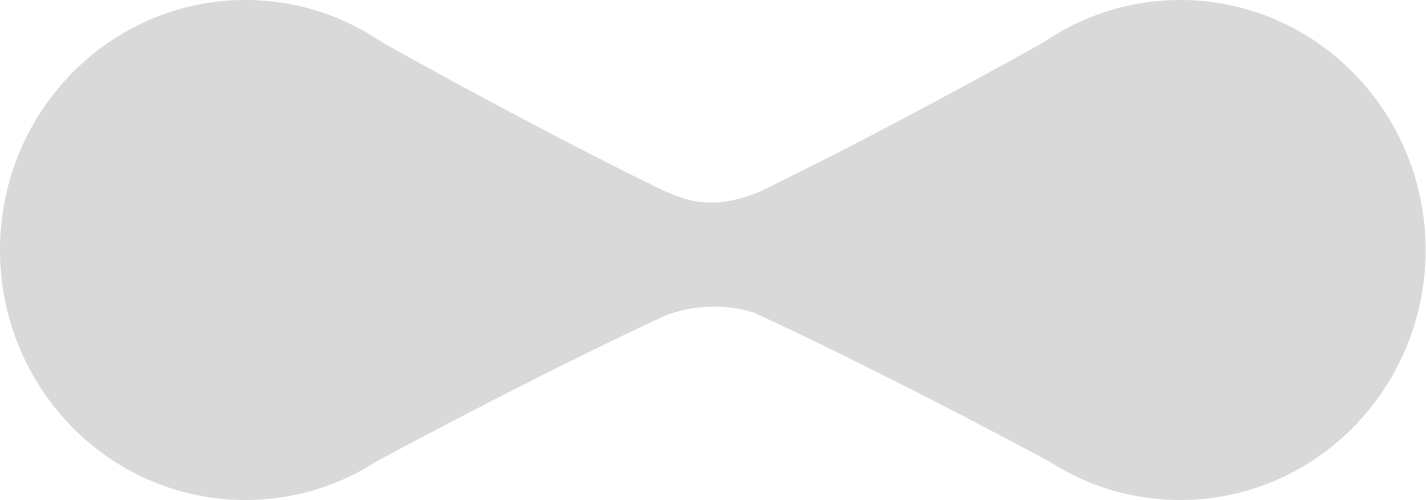
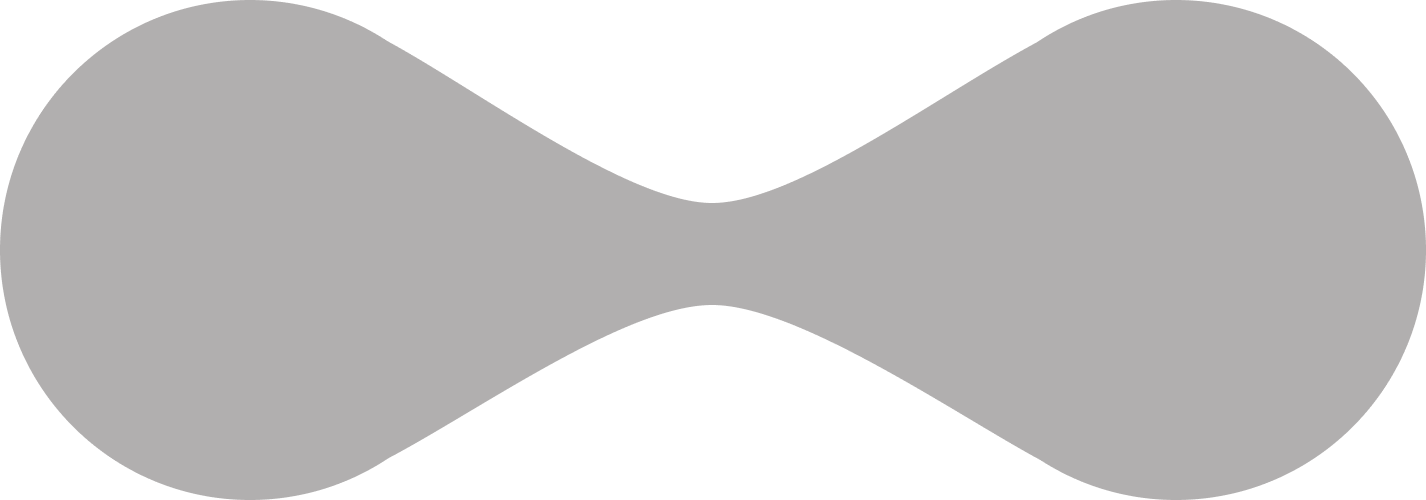
new home page background + circle shadow

diff --git a/index.html b/index.html
@@ -45,18 +45,20 @@
     <p id="hovered-item"></p>
     <div id="custom-cursor"></div>
     <div class="main-carousel" id="main-carousel">
-        <div class="circle-drop-shadow">
-            <div class="circle-art" id="circle-art">
+        <div class="circle-drop-shadow"  id="circle-art">
+            <div class="circle-art">
                 <img class="carousel-image circle-art-photo">
             </div>
+            <div class="inset-shadow"></div>
         </div>
         <div style="width: 50px;">
             <!-- 50px gap -->
         </div>
-        <div class="circle-drop-shadow">
-            <div class="circle-art" id="circle-about-me">
+        <div class="circle-drop-shadow" id="circle-about-me">
+            <div class="circle-art">
                 <img src="assets/images/about-me-profile.webp" class="carousel-image">
             </div>
+            <div class="inset-shadow"></div>
         </div>
         <div style="width: 50px;">
             <!-- 50px gap -->
@@ -70,7 +72,7 @@
                       </video>
                       
                 </div>
-                
+                <div class="inset-shadow-mix-circle"></div>
             </div>
         </div>
         <div style="width: 50px;">
@@ -78,18 +80,20 @@
         </div>
 
         <!-- duplicate content -->
-        <div class="circle-drop-shadow">
-            <div class="circle-art" id="circle-art" >
+        <div class="circle-drop-shadow" id="circle-art" >
+            <div class="circle-art">
                 <img class="carousel-image circle-art-photo">
             </div>
+            <div class="inset-shadow"></div>
         </div>
         <div style="width: 50px;">
             <!-- 50px gap -->
         </div>
-        <div class="circle-drop-shadow">
-            <div class="circle-art" id="circle-about-me">
+        <div class="circle-drop-shadow" id="circle-about-me">
+            <div class="circle-art">
                 <img src="assets/images/about-me-profile.webp" class="carousel-image">
             </div>
+            <div class="inset-shadow"></div>
         </div>
         <div style="width: 50px;">
             <!-- 50px gap -->
@@ -102,6 +106,7 @@
                         <source src="assets/videos/home-page.webm" type="video/webm">
                       </video>
                 </div>
+                <div class="inset-shadow-mix-circle"></div>
             </div>
         </div>
         <div style="width: 50px;">

diff --git a/style.css b/style.css
@@ -192,15 +192,14 @@ body {
     width: 100%;
     height: 100%;
     z-index: -2;
-    background-image: url(/assets/images/welcome.webp);
+    background-image: url(/assets/images/background-desktop.webp);
     filter: saturate(0);
     background-repeat: no-repeat;
     background-size: cover;
-    /* transition: all 1.5s; */
 }
 
 #welcome-background.after-welcome {
-   opacity: 0.9;
+   filter: brightness(0.9);
 }
 
 #welcome-background-subject {
@@ -438,13 +437,14 @@ body {
 }
 
 .mix-circle-drop-shadow {
-    background-image: url('assets/images/mix-circle.webp');
+    background-image: url('assets/images/mix-circle.png');
     background-size: cover;
     background-position: center;
 }
 
 .mix-circle-drop-shadow:hover {
     filter: drop-shadow(0 0 30px rgba(0, 0, 0, 0.4));
+    transform: scale(0.99);
     transition: all 0.3s;
 }
 
@@ -454,14 +454,23 @@ body {
     aspect-ratio: 1426 / 500;
     padding: 0;
     margin: 0;
-    mask-image: url('assets/images/mix-circle.webp');
+    mask-image: url('assets/images/mix-circle.png');
     mask-size: contain;
     mask-repeat: no-repeat;
     mask-position: center;
     cursor: pointer;
 }
 
-
+.inset-shadow-mix-circle {
+    background-image: url('assets/images/mix-circle-inner-shadow.png');
+    background-size: cover;
+    background-position: center;
+    /* filter: invert(1); */
+    position: fixed;
+    height: var(--carousel-height);
+    aspect-ratio: 1426 / 500;
+    opacity: 0.5;
+}
 
 .embedded-video-container1 {
     position: fixed;
@@ -486,13 +495,25 @@ body {
     display: flex;
     justify-content: center;
     align-items: center;
+    cursor: pointer;
     box-shadow: 0 10px 20px rgba(0, 0, 0, 0.15);
-    transition: box-shadow 0.3s;
+    transition: all 0.3s ease;
 }
 
 .circle-drop-shadow:hover {
-    box-shadow: 0 0 30px 5px rgba(0, 0, 0, 0.3);
+    box-shadow: 0 0 30px rgba(0, 0, 0, 0.4);
+    transform: scale(0.99);
 }
+
+.inset-shadow {
+    position: fixed;
+    height: var(--carousel-height);
+    aspect-ratio: 1 / 1;
+    border-radius: 50%;
+    box-shadow: inset 10px 10px 30px rgba(252, 252, 252, 0.3);
+    mix-blend-mode: hard-light;
+}
+
 
 .circle-art {
     height: var(--carousel-height);
